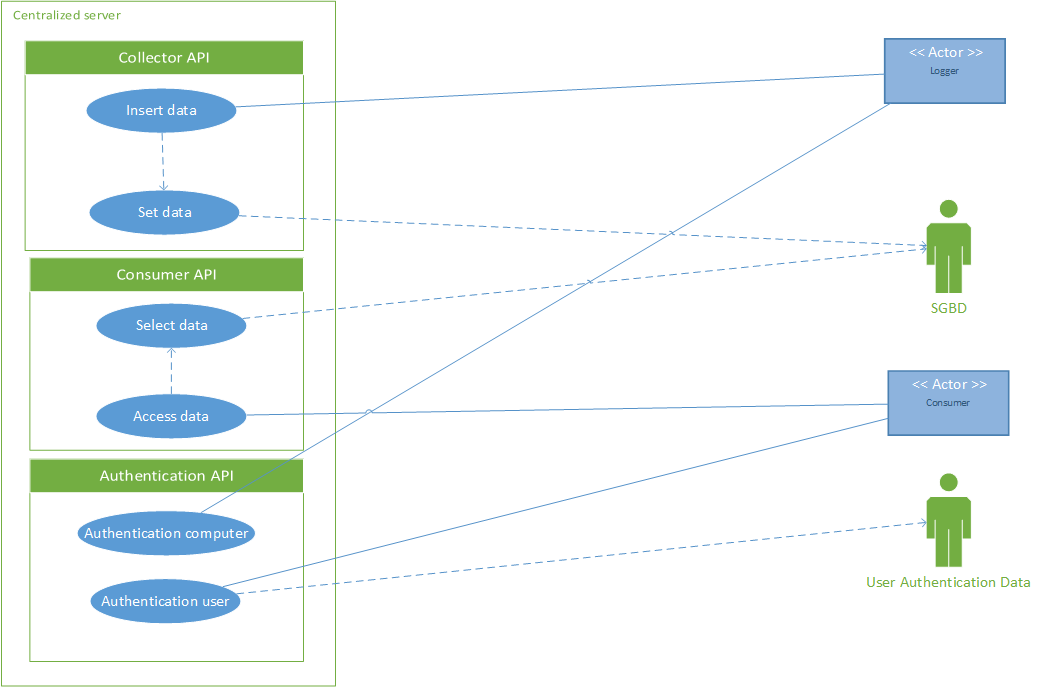
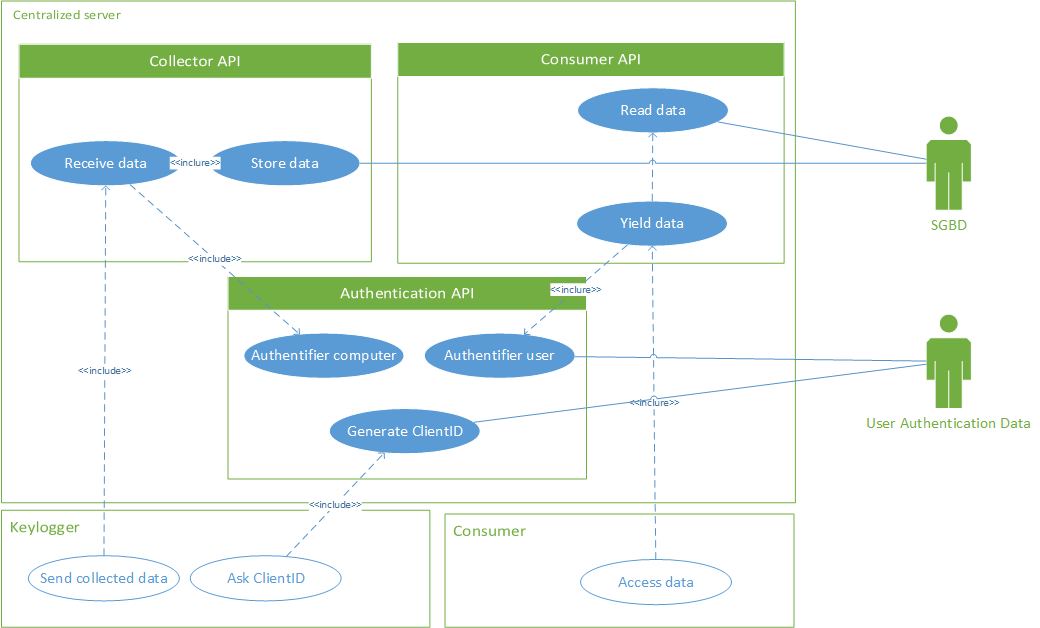
41

diff --git a/R1/Functional/Centralized-Server/Centralized-server-functional-requirement-specifications.md b/R1/Functional/Centralized-Server/Centralized-server-functional-requirement-specifications.md
@@ -3,7 +3,10 @@
 ## Introduction
 
 This document describes the centralized server functional specifications. The server collects Logger's data and provide a secure access to this data for a Consumer.
-For this, the server is composed by two main components, the collector and the consumer.
+For this, the server is composed by third main components :
+- Collector API
+- Consumer API
+- Authentication API
 
 ## Use case
 
@@ -17,10 +20,18 @@ Coming Soon
 
 ### Collector API
 
-This API is WebService to collect, adjust and store data from an external Logger.
+This API is WebService to collect, adjust and store data from an external Keylogger. To send data, the keylogger has to be identified with the CliendID.
 
 ![Keylogger - use cases](diagrams/UML - Activity - Collector.png)
 
+The data of communication is defined here.
+
 ### Consumer API
 
-This AP is WebService to access a storage data. To get data, you need to be identified and to subscribe on flux of data.
+This API is WebService to access the storage data. The consumer can identiified the user and access the data of computer what the user is subscribed.
+
+### Authentication API
+
+This API is the kernel of the security in the system. The first role is authentified the computer and the user, but it manages also what computer data can access the user.
+For this, during the installation of the keylogger, a ClientID is generated by the Authentication API and displayed to the user.
+After the user can subscribed some parc of computer with the ClientID to access the data.
